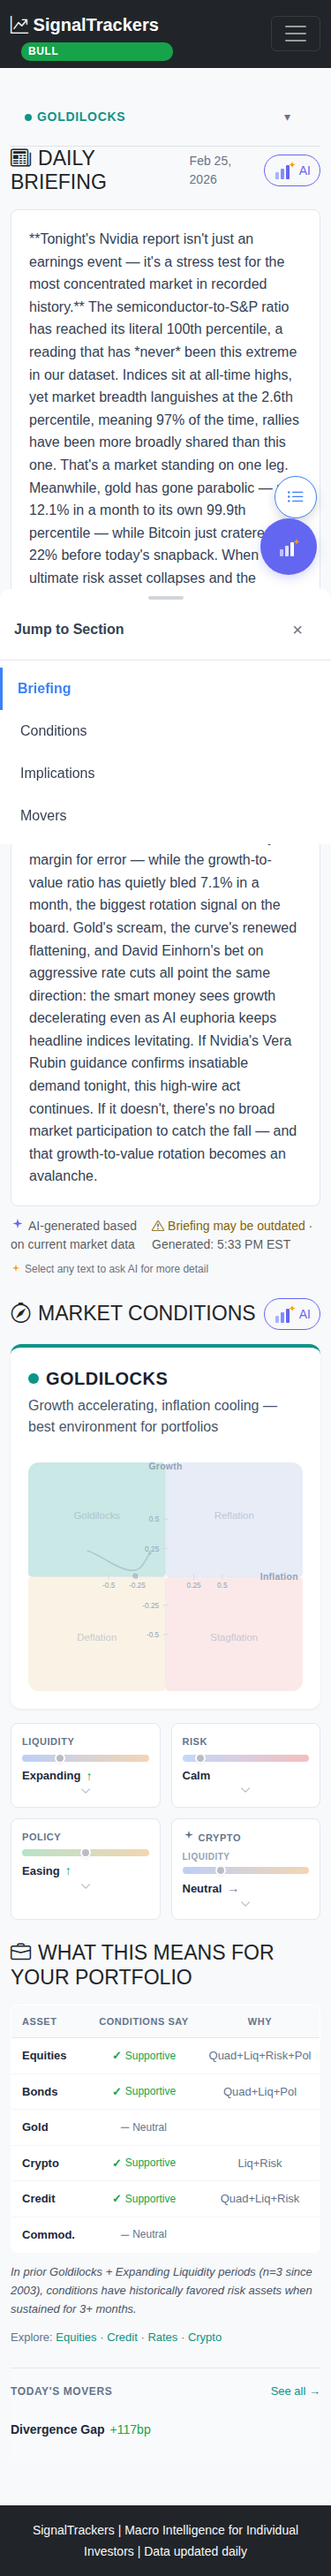
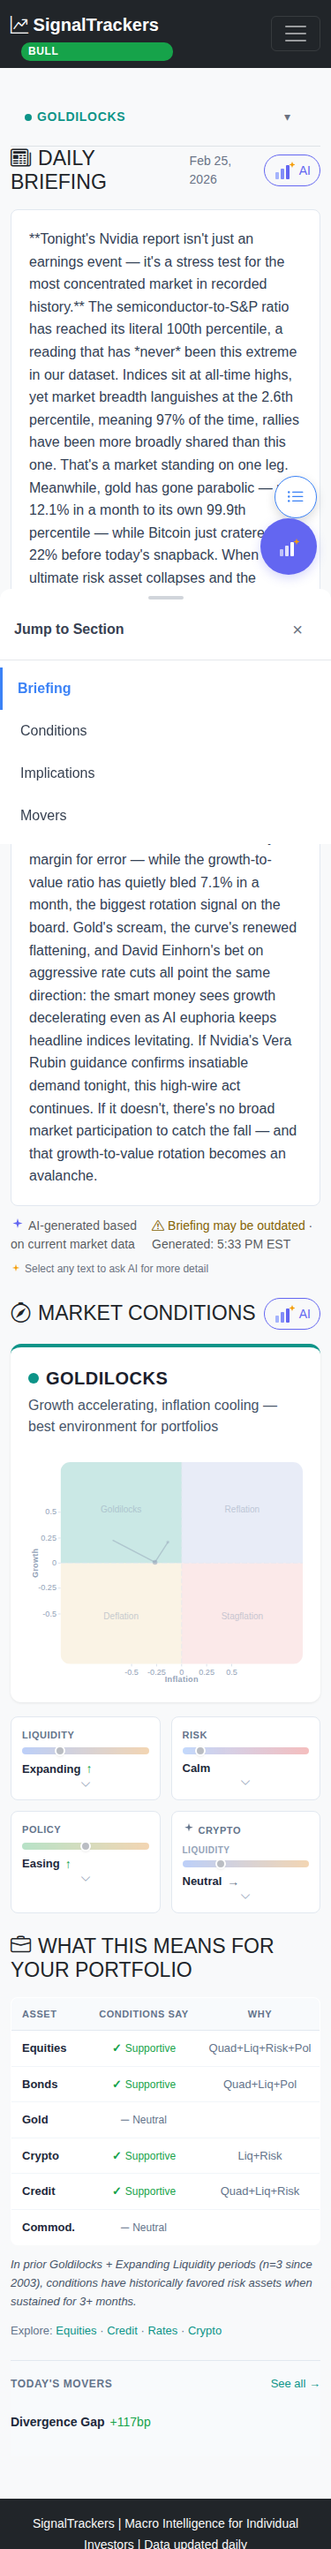
Fix quadrant chart: move axis labels outside chart, fix corner gaps
- Expand SVG viewBox to 340x275 with left/bottom margins for axis labels
- Y-axis "Growth" label + tick values on left side, outside colored regions
- X-axis "Inflation" label + tick values on bottom, outside colored regions
- Use SVG clipPath for outer corner rounding (no inner corner gaps)
- Remove rx from quadrant rects so they meet cleanly at center
- Replace blurry pulse ring with clean size-pulse animation on current dot
- Simplify trail path to direct line segments through data points

Addresses design review and QA feedback on #364

Changed region(s): [[0.0, 0.0, 1.0, 1.0], [0.9093, 0.0623, 0.9387, 0.0935], [0.352, 0.0312, 0.3813, 0.0623]]

diff --git a/signaltrackers/templates/index.html b/signaltrackers/templates/index.html
@@ -225,95 +225,85 @@
             {# Quadrants: Goldilocks (top-left, G+/I-), Reflation (top-right, G+/I+), #}
             {#            Deflation Risk (bottom-left, G-/I-), Stagflation (bottom-right, G-/I+) #}
             <div class="quadrant-hero__viz">
-                <svg class="quadrant-viz" viewBox="0 0 300 250" role="img"
+                <svg class="quadrant-viz" viewBox="0 0 340 275" role="img"
                      aria-label="Quadrant visualization: currently in {{ quadrant_name }}{% if quadrant_trajectory %}, showing trajectory over {{ quadrant_trajectory | length }} data points{% endif %}">
                     <title>Growth vs Inflation Quadrant — {{ quadrant_name }}</title>
 
-                    {# Quadrant background regions #}
-                    <rect x="0" y="0" width="150" height="125" class="quadrant-region quadrant-region--goldilocks{% if _quad_key == 'goldilocks' %} quadrant-region--active{% endif %}" rx="4" />
-                    <rect x="150" y="0" width="150" height="125" class="quadrant-region quadrant-region--reflation{% if _quad_key == 'reflation' %} quadrant-region--active{% endif %}" rx="4" />
-                    <rect x="0" y="125" width="150" height="125" class="quadrant-region quadrant-region--deflation{% if _quad_key == 'deflation' %} quadrant-region--active{% endif %}" rx="4" />
-                    <rect x="150" y="125" width="150" height="125" class="quadrant-region quadrant-region--stagflation{% if _quad_key == 'stagflation' %} quadrant-region--active{% endif %}" rx="4" />
+                    <defs>
+                        <clipPath id="quadrant-clip">
+                            <rect x="40" y="0" width="300" height="250" rx="12" />
+                        </clipPath>
+                    </defs>
 
-                    {# Tick marks on axes #}
-                    {% for val in [-0.5, -0.25, 0.25, 0.5] %}
-                    {% set tx = (150 + val * 125) | round | int %}
-                    {% set ty = (125 - val * 125) | round | int %}
-                    <line x1="{{ tx }}" y1="122" x2="{{ tx }}" y2="128" class="quadrant-tick" />
-                    <text x="{{ tx }}" y="137" class="quadrant-tick-label">{{ val }}</text>
-                    <line x1="147" y1="{{ ty }}" x2="153" y2="{{ ty }}" class="quadrant-tick" />
-                    <text x="143" y="{{ ty + 3 }}" class="quadrant-tick-label quadrant-tick-label--y">{{ val }}</text>
+                    {# Chart area with clipped outer corners #}
+                    <g clip-path="url(#quadrant-clip)">
+                        {# Quadrant background regions — no rx so inner corners meet cleanly #}
+                        <rect x="40" y="0" width="150" height="125" class="quadrant-region quadrant-region--goldilocks{% if _quad_key == 'goldilocks' %} quadrant-region--active{% endif %}" />
+                        <rect x="190" y="0" width="150" height="125" class="quadrant-region quadrant-region--reflation{% if _quad_key == 'reflation' %} quadrant-region--active{% endif %}" />
+                        <rect x="40" y="125" width="150" height="125" class="quadrant-region quadrant-region--deflation{% if _quad_key == 'deflation' %} quadrant-region--active{% endif %}" />
+                        <rect x="190" y="125" width="150" height="125" class="quadrant-region quadrant-region--stagflation{% if _quad_key == 'stagflation' %} quadrant-region--active{% endif %}" />
+
+                        {# Center crosshair — dashed, light #}
+                        <line x1="190" y1="0" x2="190" y2="250" class="quadrant-axis" />
+                        <line x1="40" y1="125" x2="340" y2="125" class="quadrant-axis" />
+
+                        {# Quadrant name labels — watermark style, centered in each region #}
+                        <text x="115" y="62" class="quadrant-name-label">Goldilocks</text>
+                        <text x="265" y="62" class="quadrant-name-label">Reflation</text>
+                        <text x="115" y="195" class="quadrant-name-label">Deflation</text>
+                        <text x="265" y="195" class="quadrant-name-label">Stagflation</text>
+
+                        {# Trajectory trail (oldest to newest) — line path + decreasing dots #}
+                        {% if quadrant_trajectory and quadrant_trajectory | length > 1 %}
+                        {% set trail = quadrant_trajectory | reverse | list %}
+                        {% set ns = namespace(path_d='') %}
+                        {% for point in trail %}
+                        {% set px = [50, [330, (190 + (point.inflation * 125)) | round | int] | min] | max %}
+                        {% set py = [10, [240, (125 - (point.growth * 125)) | round | int] | min] | max %}
+                        {% if loop.first %}
+                        {% set ns.path_d = 'M ' ~ px ~ ' ' ~ py %}
+                        {% else %}
+                        {% set ns.path_d = ns.path_d ~ ' L ' ~ px ~ ' ' ~ py %}
+                        {% endif %}
+                        {% endfor %}
+                        <path d="{{ ns.path_d }}" class="quadrant-trail-path" />
+                        {% for point in trail %}
+                        {% set px = [50, [330, (190 + (point.inflation * 125)) | round | int] | min] | max %}
+                        {% set py = [10, [240, (125 - (point.growth * 125)) | round | int] | min] | max %}
+                        {% if not loop.last %}
+                        {% set dot_r = 2.0 + (2.0 * loop.index0 / (trail | length - 1)) %}
+                        <circle cx="{{ px }}" cy="{{ py }}" r="{{ dot_r | round(1) }}"
+                                class="quadrant-trail-dot" style="opacity: {{ 0.3 + (0.5 * loop.index0 / (trail | length - 1)) }}" />
+                        {% endif %}
+                        {% endfor %}
+                        {% endif %}
+
+                        {# Current position dot with subtle glow pulse #}
+                        {% if quad.get('growth_composite') is not none and quad.get('inflation_composite') is not none %}
+                        {% set cx = (190 + (quad.inflation_composite * 125)) | round | int %}
+                        {% set cy = (125 - (quad.growth_composite * 125)) | round | int %}
+                        {% set cx_clamped = [50, [330, cx] | min] | max %}
+                        {% set cy_clamped = [10, [240, cy] | min] | max %}
+                        <circle cx="{{ cx_clamped }}" cy="{{ cy_clamped }}" r="5"
+                                class="quadrant-current-dot quadrant-dot--{{ _quad_key }}" />
+                        {% endif %}
+                    </g>
+
+                    {# Y-axis — labels outside chart area (left margin) #}
+                    <text x="12" y="125" class="quadrant-label quadrant-label--y" transform="rotate(-90, 12, 125)">Growth</text>
+                    {% for val in [-0.5, -0.25, 0, 0.25, 0.5] %}
+                    {% set ty = (125 - (val * 125)) | round | int %}
+                    <line x1="37" y1="{{ ty }}" x2="40" y2="{{ ty }}" class="quadrant-tick" />
+                    <text x="35" y="{{ ty + 3 }}" class="quadrant-tick-label quadrant-tick-label--y">{{ val }}</text>
                     {% endfor %}
 
-                    {# Center crosshair — dashed, light #}
-                    <line x1="150" y1="10" x2="150" y2="240" class="quadrant-axis" />
-                    <line x1="10" y1="125" x2="290" y2="125" class="quadrant-axis" />
-
-                    {# Axis labels — standard: "Growth" at top, "Inflation" at right #}
-                    <text x="150" y="8" class="quadrant-label quadrant-label--top">Growth</text>
-                    <text x="295" y="128" class="quadrant-label quadrant-label--right">Inflation</text>
-
-                    {# Quadrant name labels — watermark style #}
-                    <text x="75" y="62" class="quadrant-name-label">Goldilocks</text>
-                    <text x="225" y="62" class="quadrant-name-label">Reflation</text>
-                    <text x="75" y="195" class="quadrant-name-label">Deflation</text>
-                    <text x="225" y="195" class="quadrant-name-label">Stagflation</text>
-
-                    {# Trajectory trail (oldest to newest) — curved path + decreasing dots #}
-                    {% if quadrant_trajectory and quadrant_trajectory | length > 1 %}
-                    {% set trail = quadrant_trajectory | reverse | list %}
-                    {% set ns = namespace(path_d='') %}
-                    {% for point in trail %}
-                    {% set px = [10, [290, (150 + (point.inflation * 125)) | round | int] | min] | max %}
-                    {% set py = [10, [240, (125 - (point.growth * 125)) | round | int] | min] | max %}
-                    {% if loop.first %}
-                    {% set ns.path_d = 'M ' ~ px ~ ' ' ~ py %}
-                    {% elif loop.index == 2 %}
-                    {# First segment: quadratic curve using midpoint as control #}
-                    {% set prev = trail[0] %}
-                    {% set ppx = [10, [290, (150 + (prev.inflation * 125)) | round | int] | min] | max %}
-                    {% set ppy = [10, [240, (125 - (prev.growth * 125)) | round | int] | min] | max %}
-                    {% set mx = ((ppx + px) / 2) | round | int %}
-                    {% set my = ((ppy + py) / 2) | round | int %}
-                    {% set ns.path_d = ns.path_d ~ ' Q ' ~ ppx ~ ' ' ~ ppy ~ ' ' ~ mx ~ ' ' ~ my %}
-                    {% else %}
-                    {# Subsequent segments: smooth quadratic (T) for continuity #}
-                    {% set prev = trail[loop.index0 - 1] %}
-                    {% set ppx = [10, [290, (150 + (prev.inflation * 125)) | round | int] | min] | max %}
-                    {% set ppy = [10, [240, (125 - (prev.growth * 125)) | round | int] | min] | max %}
-                    {% set mx = ((ppx + px) / 2) | round | int %}
-                    {% set my = ((ppy + py) / 2) | round | int %}
-                    {% set ns.path_d = ns.path_d ~ ' T ' ~ mx ~ ' ' ~ my %}
-                    {% endif %}
+                    {# X-axis — labels outside chart area (bottom margin) #}
+                    <text x="190" y="272" class="quadrant-label">Inflation</text>
+                    {% for val in [-0.5, -0.25, 0, 0.25, 0.5] %}
+                    {% set tx = (190 + (val * 125)) | round | int %}
+                    <line x1="{{ tx }}" y1="250" x2="{{ tx }}" y2="253" class="quadrant-tick" />
+                    <text x="{{ tx }}" y="264" class="quadrant-tick-label">{{ val }}</text>
                     {% endfor %}
-                    {# Extend to final point #}
-                    {% set last = trail[-1] %}
-                    {% set lx = [10, [290, (150 + (last.inflation * 125)) | round | int] | min] | max %}
-                    {% set ly = [10, [240, (125 - (last.growth * 125)) | round | int] | min] | max %}
-                    {% set ns.path_d = ns.path_d ~ ' T ' ~ lx ~ ' ' ~ ly %}
-                    <path d="{{ ns.path_d }}" class="quadrant-trail-path" />
-                    {% for point in trail %}
-                    {% set px = [10, [290, (150 + (point.inflation * 125)) | round | int] | min] | max %}
-                    {% set py = [10, [240, (125 - (point.growth * 125)) | round | int] | min] | max %}
-                    {% if not loop.last %}
-                    {% set dot_r = 2.0 + (2.0 * loop.index0 / (trail | length - 1)) %}
-                    <circle cx="{{ px }}" cy="{{ py }}" r="{{ dot_r | round(1) }}"
-                            class="quadrant-trail-dot" style="opacity: {{ 0.3 + (0.5 * loop.index0 / (trail | length - 1)) }}" />
-                    {% endif %}
-                    {% endfor %}
-                    {% endif %}
-
-                    {# Current position dot with pulse animation #}
-                    {% if quad.get('growth_composite') is not none and quad.get('inflation_composite') is not none %}
-                    {% set cx = (150 + (quad.inflation_composite * 125)) | round | int %}
-                    {% set cy = (125 - (quad.growth_composite * 125)) | round | int %}
-                    {% set cx_clamped = [10, [290, cx] | min] | max %}
-                    {% set cy_clamped = [10, [240, cy] | min] | max %}
-                    <circle cx="{{ cx_clamped }}" cy="{{ cy_clamped }}" r="10"
-                            class="quadrant-pulse-ring quadrant-dot--{{ _quad_key }}" />
-                    <circle cx="{{ cx_clamped }}" cy="{{ cy_clamped }}" r="6"
-                            class="quadrant-current-dot quadrant-dot--{{ _quad_key }}" />
-                    {% endif %}
                 </svg>
             </div>
         </div>

diff --git a/signaltrackers/static/css/components/conditions-summary.css b/signaltrackers/static/css/components/conditions-summary.css
@@ -152,8 +152,6 @@
 .quadrant-viz {
     width: 100%;
     height: auto;
-    border-radius: var(--radius-lg, 12px);
-    overflow: hidden;
 }
 
 .quadrant-region {
@@ -195,7 +193,7 @@
     font-weight: 600;
     letter-spacing: 0.03em;
 }
-.quadrant-label--right { text-anchor: end; }
+.quadrant-label--y { text-anchor: middle; }
 
 .quadrant-name-label {
     font-size: 11px;
@@ -221,26 +219,16 @@
 .quadrant-current-dot {
     stroke: #fff;
     stroke-width: 2;
+    animation: quadrant-pulse 2.5s ease-in-out infinite;
 }
 .quadrant-current-dot.quadrant-dot--goldilocks  { fill: var(--quadrant-goldilocks); }
 .quadrant-current-dot.quadrant-dot--reflation   { fill: var(--quadrant-reflation); }
 .quadrant-current-dot.quadrant-dot--stagflation { fill: var(--quadrant-stagflation); }
 .quadrant-current-dot.quadrant-dot--deflation   { fill: var(--quadrant-deflation); }
 
-.quadrant-pulse-ring {
-    fill: none;
-    stroke-width: 2;
-    opacity: 0;
-    animation: quadrant-pulse 2.5s ease-out infinite;
-}
-.quadrant-pulse-ring.quadrant-dot--goldilocks  { stroke: var(--quadrant-goldilocks); }
-.quadrant-pulse-ring.quadrant-dot--reflation   { stroke: var(--quadrant-reflation); }
-.quadrant-pulse-ring.quadrant-dot--stagflation { stroke: var(--quadrant-stagflation); }
-.quadrant-pulse-ring.quadrant-dot--deflation   { stroke: var(--quadrant-deflation); }
-
 @keyframes quadrant-pulse {
-    0%   { r: 6;  opacity: 0.6; }
-    100% { r: 18; opacity: 0; }
+    0%, 100% { r: 5; opacity: 1; }
+    50%      { r: 7; opacity: 0.85; }
 }
 
 /* Tablet: typography scaling */
